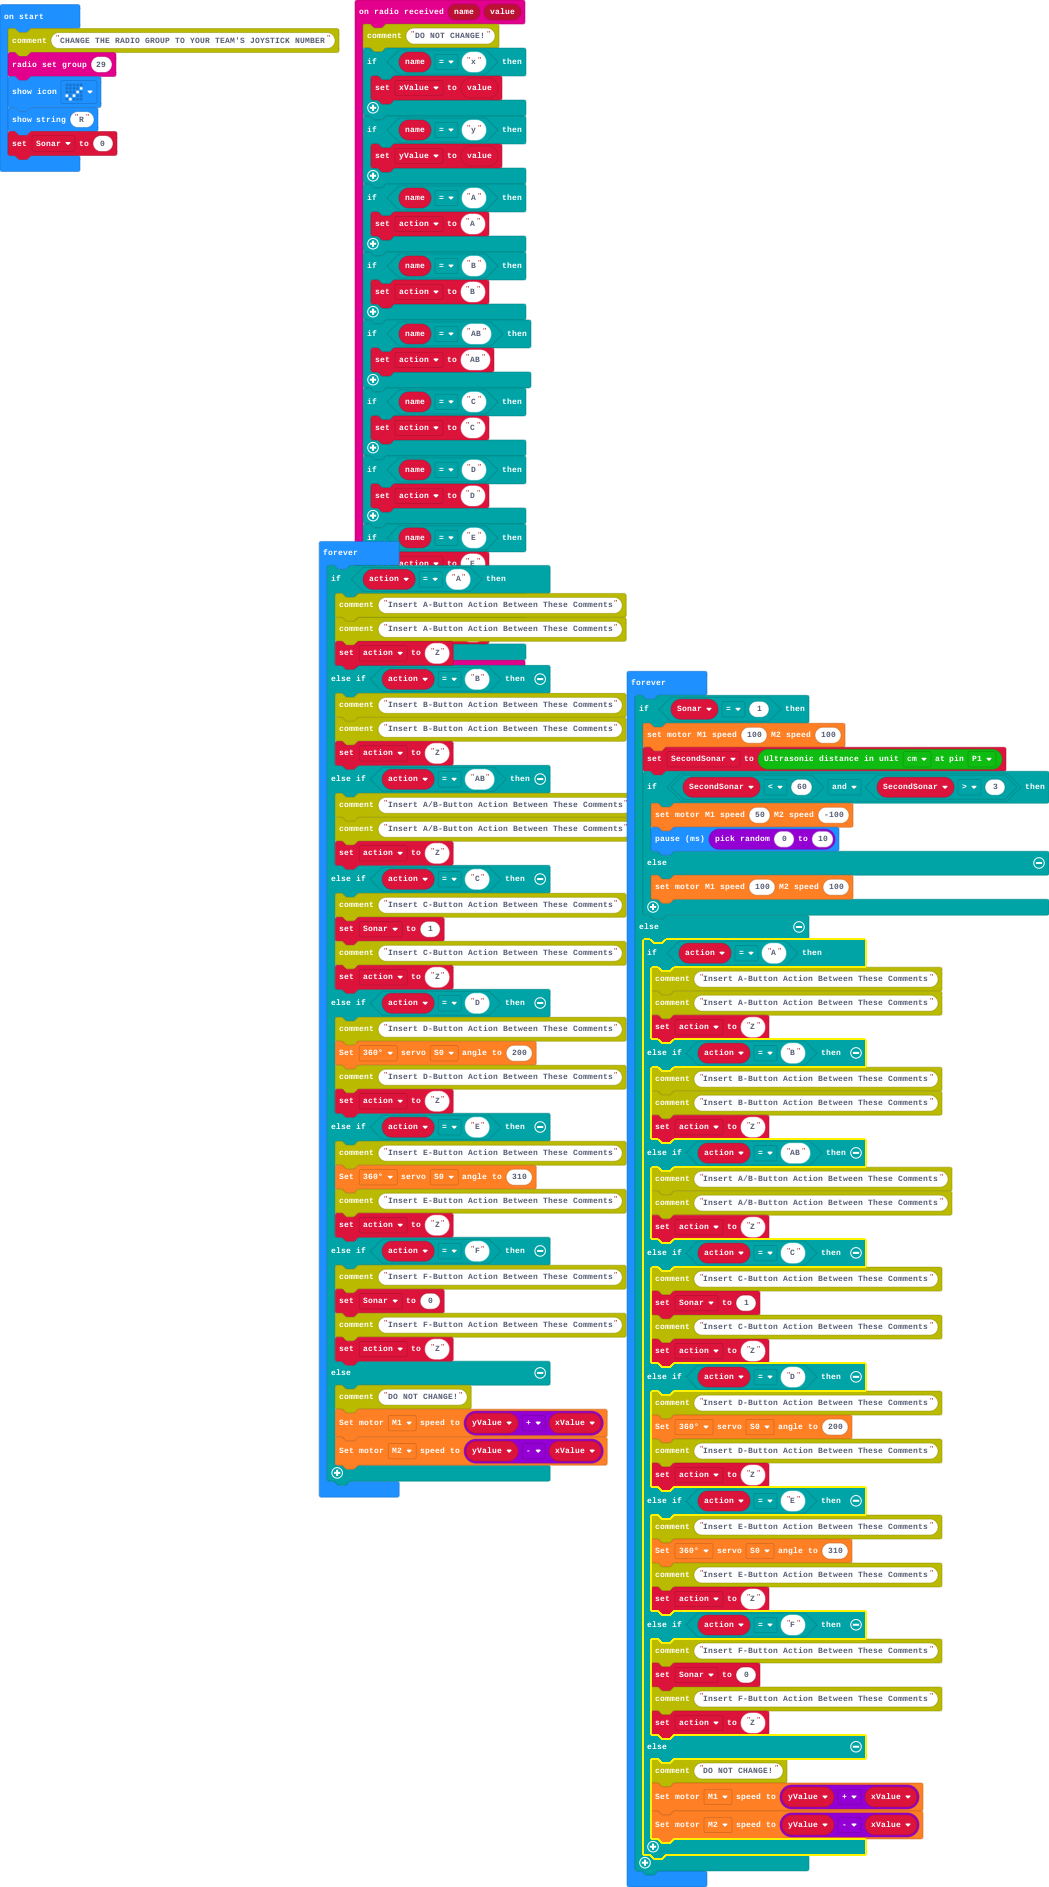
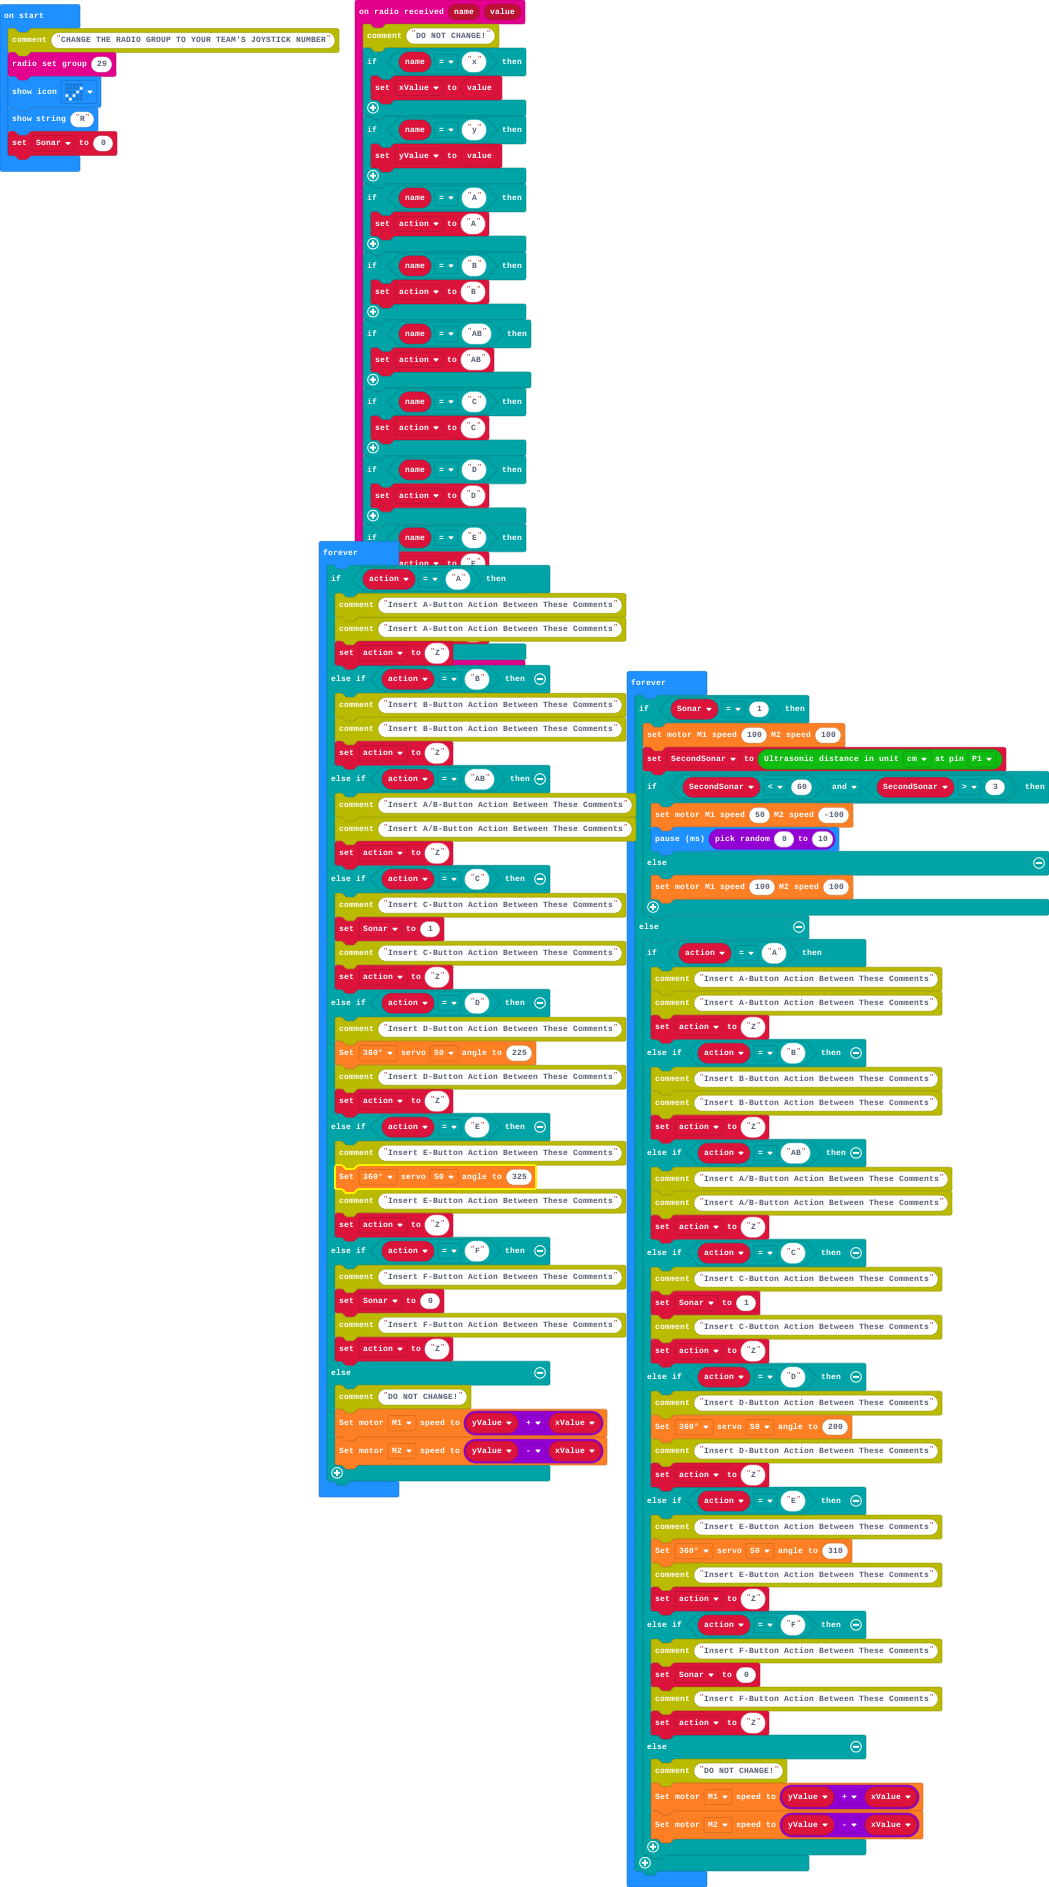
Update main.blocks, main.ts

diff --git a/main.ts b/main.ts
@@ -57,12 +57,12 @@ basic.forever(function () {
         action = "Z"
     } else if (action == "D") {
         comment.comment("Insert D-Button Action Between These Comments")
-        wuKong.setServoAngle(wuKong.ServoTypeList._360, wuKong.ServoList.S0, 200)
+        wuKong.setServoAngle(wuKong.ServoTypeList._360, wuKong.ServoList.S0, 225)
         comment.comment("Insert D-Button Action Between These Comments")
         action = "Z"
     } else if (action == "E") {
         comment.comment("Insert E-Button Action Between These Comments")
-        wuKong.setServoAngle(wuKong.ServoTypeList._360, wuKong.ServoList.S0, 310)
+        wuKong.setServoAngle(wuKong.ServoTypeList._360, wuKong.ServoList.S0, 325)
         comment.comment("Insert E-Button Action Between These Comments")
         action = "Z"
     } else if (action == "F") {
